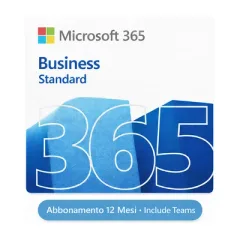
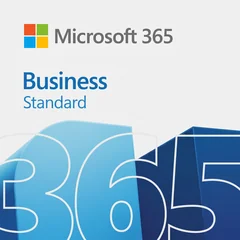
Sostituisce l'immagine prodotto di Microsoft 365 Business Standard
Nuovo artwork ufficiale in WebP (400/320/240px), peso ridotto da 21,6 a 13,9 KB per la versione principale.

diff --git a/it/microsoft-365-business-standard.html b/it/microsoft-365-business-standard.html
@@ -175,7 +175,7 @@
     <script src="../js/consent-init.js?v=1014bf53bc"></script>
     <link rel="icon" href="../favicon/favicon.png?v=3bfa4181d2" type="image/png">
     <link rel="apple-touch-icon" href="../favicon/apple-touch-icon.png?v=998f6e4af4">
-    <link rel="preload" as="image" href="../asset/media/products/microsoft-365-business-standard.webp?v=260aa05da1" fetchpriority="high" type="image/webp">
+    <link rel="preload" as="image" href="../asset/media/products/microsoft-365-business-standard.webp?v=017a82bb75" fetchpriority="high" type="image/webp">
     <link rel="stylesheet" href="../fonts/montserrat.css?v=3da8c0f35d">
     <!-- Font del mockup di riferimento (Plus Jakarta Sans + Inter), scopato alla
          sola PDP tramite --font-sans su .pdp-page — non tocca header/footer,
@@ -192,7 +192,7 @@
     <link rel="stylesheet" href="../css/header.css?v=99f0f9e298">
     <link rel="stylesheet" href="../css/footer.css?v=31dc97e061">
     <link rel="stylesheet" href="../css/product.css?v=51918bdcca">
-    <link rel="stylesheet" href="../css/product-pdp.css?v=0d5ad7732d">
+    <link rel="stylesheet" href="../css/product-pdp.css?v=8837be8eed">
     <script src="../js/theme-init.js?v=d487584e0d"></script>
     <script>window.__amlPaypalConfig = fetch("/api/paypal-config").then(function(r){return r.json();}).catch(function(){return null;});</script>
 </head>
@@ -454,7 +454,7 @@
             </ecommerce-header>
     <div id="product-sticky-cta" class="product-sticky-cta" role="region" aria-label="Acquisto rapido" aria-hidden="true">
         <div class="product-sticky-cta__inner">
-            <img class="product-sticky-cta__thumb" src="../asset/media/products/microsoft-365-business-standard.webp?v=260aa05da1" width="40" height="40" alt="" loading="lazy" decoding="async">
+            <img class="product-sticky-cta__thumb" src="../asset/media/products/microsoft-365-business-standard.webp?v=017a82bb75" width="40" height="40" alt="" loading="lazy" decoding="async">
             <div class="product-sticky-cta__name">
                 <span class="product-sticky-cta__title">Microsoft 365 Business Standard</span>
                 <span class="product-sticky-cta__eta">Consegna in 2 minuti via Email</span>
@@ -493,7 +493,7 @@
                 <p class="v2-hero__desc">Microsoft 365 Business Standard: app Office desktop complete (Word, Excel, PowerPoint, Outlook), posta aziendale Exchange da 50 GB con dominio personalizzato, Teams per riunioni fino a 300 partecipanti e 1 TB OneDrive. Licenza per 1 utente su 5 PC/Mac + 5 dispositivi mobili, attivazione ufficiale e fattura elettronica con P.IVA.</p>
 
                 <figure class="pdp-media">
-                    <img class="pdp-media__img product-cover-img" src="../asset/media/products/microsoft-365-business-standard.webp?v=260aa05da1" width="400" height="400" alt="Microsoft 365 Business Standard" fetchpriority="high" decoding="async">
+                    <img class="pdp-media__img product-cover-img" src="../asset/media/products/microsoft-365-business-standard.webp?v=017a82bb75" width="400" height="400" alt="Microsoft 365 Business Standard" fetchpriority="high" decoding="async">
                 </figure>
 
                 <div class="pdp-apptabs-block">

diff --git a/pt/microsoft-365-business-standard.html b/pt/microsoft-365-business-standard.html
@@ -175,7 +175,7 @@
     <script src="../js/consent-init.js?v=1014bf53bc"></script>
     <link rel="icon" href="../favicon/favicon.png?v=3bfa4181d2" type="image/png">
     <link rel="apple-touch-icon" href="../favicon/apple-touch-icon.png?v=998f6e4af4">
-    <link rel="preload" as="image" href="../asset/media/products/microsoft-365-business-standard.webp?v=260aa05da1" fetchpriority="high" type="image/webp">
+    <link rel="preload" as="image" href="../asset/media/products/microsoft-365-business-standard.webp?v=017a82bb75" fetchpriority="high" type="image/webp">
     <link rel="stylesheet" href="../fonts/montserrat.css?v=3da8c0f35d">
     <!-- Font del mockup di riferimento (Plus Jakarta Sans + Inter), scopato alla
          sola PDP tramite --font-sans su .pdp-page — non tocca header/footer,
@@ -192,7 +192,7 @@
     <link rel="stylesheet" href="../css/header.css?v=99f0f9e298">
     <link rel="stylesheet" href="../css/footer.css?v=31dc97e061">
     <link rel="stylesheet" href="../css/product.css?v=51918bdcca">
-    <link rel="stylesheet" href="../css/product-pdp.css?v=0d5ad7732d">
+    <link rel="stylesheet" href="../css/product-pdp.css?v=8837be8eed">
     <script src="../js/theme-init.js?v=d487584e0d"></script>
     <script>window.__amlPaypalConfig = fetch("/api/paypal-config").then(function(r){return r.json();}).catch(function(){return null;});</script>
 </head>
@@ -454,7 +454,7 @@
             </ecommerce-header>
     <div id="product-sticky-cta" class="product-sticky-cta" role="region" aria-label="Compra rápida" aria-hidden="true">
         <div class="product-sticky-cta__inner">
-            <img class="product-sticky-cta__thumb" src="../asset/media/products/microsoft-365-business-standard.webp?v=260aa05da1" width="40" height="40" alt="" loading="lazy" decoding="async">
+            <img class="product-sticky-cta__thumb" src="../asset/media/products/microsoft-365-business-standard.webp?v=017a82bb75" width="40" height="40" alt="" loading="lazy" decoding="async">
             <div class="product-sticky-cta__name">
                 <span class="product-sticky-cta__title">Microsoft 365 Business Standard</span>
                 <span class="product-sticky-cta__eta">Entrega em 2 minutos por email</span>
@@ -493,7 +493,7 @@
                 <p class="v2-hero__desc">Microsoft 365 Business Standard: aplicações Office de computador completas (Word, Excel, PowerPoint, Outlook), email empresarial Exchange de 50 GB com domínio próprio, Teams até 300 participantes e 1 TB OneDrive. Licença de 1 utilizador para 5 PC/Mac + 5 dispositivos móveis, ativação oficial e fatura com IVA.</p>
 
                 <figure class="pdp-media">
-                    <img class="pdp-media__img product-cover-img" src="../asset/media/products/microsoft-365-business-standard.webp?v=260aa05da1" width="400" height="400" alt="Microsoft 365 Business Standard" fetchpriority="high" decoding="async">
+                    <img class="pdp-media__img product-cover-img" src="../asset/media/products/microsoft-365-business-standard.webp?v=017a82bb75" width="400" height="400" alt="Microsoft 365 Business Standard" fetchpriority="high" decoding="async">
                 </figure>
 
                 <div class="pdp-apptabs-block">

diff --git a/es/microsoft-365-business-standard.html b/es/microsoft-365-business-standard.html
@@ -175,7 +175,7 @@
     <script src="../js/consent-init.js?v=1014bf53bc"></script>
     <link rel="icon" href="../favicon/favicon.png?v=3bfa4181d2" type="image/png">
     <link rel="apple-touch-icon" href="../favicon/apple-touch-icon.png?v=998f6e4af4">
-    <link rel="preload" as="image" href="../asset/media/products/microsoft-365-business-standard.webp?v=260aa05da1" fetchpriority="high" type="image/webp">
+    <link rel="preload" as="image" href="../asset/media/products/microsoft-365-business-standard.webp?v=017a82bb75" fetchpriority="high" type="image/webp">
     <link rel="stylesheet" href="../fonts/montserrat.css?v=3da8c0f35d">
     <!-- Font del mockup di riferimento (Plus Jakarta Sans + Inter), scopato alla
          sola PDP tramite --font-sans su .pdp-page — non tocca header/footer,
@@ -192,7 +192,7 @@
     <link rel="stylesheet" href="../css/header.css?v=99f0f9e298">
     <link rel="stylesheet" href="../css/footer.css?v=31dc97e061">
     <link rel="stylesheet" href="../css/product.css?v=51918bdcca">
-    <link rel="stylesheet" href="../css/product-pdp.css?v=0d5ad7732d">
+    <link rel="stylesheet" href="../css/product-pdp.css?v=8837be8eed">
     <script src="../js/theme-init.js?v=d487584e0d"></script>
     <script>window.__amlPaypalConfig = fetch("/api/paypal-config").then(function(r){return r.json();}).catch(function(){return null;});</script>
 </head>
@@ -454,7 +454,7 @@
             </ecommerce-header>
     <div id="product-sticky-cta" class="product-sticky-cta" role="region" aria-label="Compra rápida" aria-hidden="true">
         <div class="product-sticky-cta__inner">
-            <img class="product-sticky-cta__thumb" src="../asset/media/products/microsoft-365-business-standard.webp?v=260aa05da1" width="40" height="40" alt="" loading="lazy" decoding="async">
+            <img class="product-sticky-cta__thumb" src="../asset/media/products/microsoft-365-business-standard.webp?v=017a82bb75" width="40" height="40" alt="" loading="lazy" decoding="async">
             <div class="product-sticky-cta__name">
                 <span class="product-sticky-cta__title">Microsoft 365 Business Standard</span>
                 <span class="product-sticky-cta__eta">Entrega en 2 minutos por email</span>
@@ -493,7 +493,7 @@
                 <p class="v2-hero__desc">Microsoft 365 Business Standard: aplicaciones de escritorio completas de Office (Word, Excel, PowerPoint, Outlook), correo Exchange de 50 GB con dominio personalizado, Teams para reuniones de hasta 300 asistentes y 1 TB OneDrive. Licencia de 1 usuario para 5 PC/Mac + 5 móviles, activación oficial y factura con IVA.</p>
 
                 <figure class="pdp-media">
-                    <img class="pdp-media__img product-cover-img" src="../asset/media/products/microsoft-365-business-standard.webp?v=260aa05da1" width="400" height="400" alt="Microsoft 365 Business Standard" fetchpriority="high" decoding="async">
+                    <img class="pdp-media__img product-cover-img" src="../asset/media/products/microsoft-365-business-standard.webp?v=017a82bb75" width="400" height="400" alt="Microsoft 365 Business Standard" fetchpriority="high" decoding="async">
                 </figure>
 
                 <div class="pdp-apptabs-block">

diff --git a/nl/microsoft-365-business-standard.html b/nl/microsoft-365-business-standard.html
@@ -175,7 +175,7 @@
     <script src="../js/consent-init.js?v=1014bf53bc"></script>
     <link rel="icon" href="../favicon/favicon.png?v=3bfa4181d2" type="image/png">
     <link rel="apple-touch-icon" href="../favicon/apple-touch-icon.png?v=998f6e4af4">
-    <link rel="preload" as="image" href="../asset/media/products/microsoft-365-business-standard.webp?v=260aa05da1" fetchpriority="high" type="image/webp">
+    <link rel="preload" as="image" href="../asset/media/products/microsoft-365-business-standard.webp?v=017a82bb75" fetchpriority="high" type="image/webp">
     <link rel="stylesheet" href="../fonts/montserrat.css?v=3da8c0f35d">
     <!-- Font del mockup di riferimento (Plus Jakarta Sans + Inter), scopato alla
          sola PDP tramite --font-sans su .pdp-page — non tocca header/footer,
@@ -192,7 +192,7 @@
     <link rel="stylesheet" href="../css/header.css?v=99f0f9e298">
     <link rel="stylesheet" href="../css/footer.css?v=31dc97e061">
     <link rel="stylesheet" href="../css/product.css?v=51918bdcca">
-    <link rel="stylesheet" href="../css/product-pdp.css?v=0d5ad7732d">
+    <link rel="stylesheet" href="../css/product-pdp.css?v=8837be8eed">
     <script src="../js/theme-init.js?v=d487584e0d"></script>
     <script>window.__amlPaypalConfig = fetch("/api/paypal-config").then(function(r){return r.json();}).catch(function(){return null;});</script>
 </head>
@@ -454,7 +454,7 @@
             </ecommerce-header>
     <div id="product-sticky-cta" class="product-sticky-cta" role="region" aria-label="Snel kopen" aria-hidden="true">
         <div class="product-sticky-cta__inner">
-            <img class="product-sticky-cta__thumb" src="../asset/media/products/microsoft-365-business-standard.webp?v=260aa05da1" width="40" height="40" alt="" loading="lazy" decoding="async">
+            <img class="product-sticky-cta__thumb" src="../asset/media/products/microsoft-365-business-standard.webp?v=017a82bb75" width="40" height="40" alt="" loading="lazy" decoding="async">
             <div class="product-sticky-cta__name">
                 <span class="product-sticky-cta__title">Microsoft 365 Business Standard</span>
                 <span class="product-sticky-cta__eta">Levering in 2 minuten per e-mail</span>
@@ -493,7 +493,7 @@
                 <p class="v2-hero__desc">Microsoft 365 Business Standard: complete desktop Office-apps (Word, Excel, PowerPoint, Outlook), 50 GB Exchange zakelijke e-mail met eigen domein, Teams voor vergaderingen tot 300 deelnemers en 1 TB OneDrive. Licentie voor 1 gebruiker op 5 pc's/Macs + 5 mobiele apparaten, officiële activering en btw-factuur.</p>
 
                 <figure class="pdp-media">
-                    <img class="pdp-media__img product-cover-img" src="../asset/media/products/microsoft-365-business-standard.webp?v=260aa05da1" width="400" height="400" alt="Microsoft 365 Business Standard" fetchpriority="high" decoding="async">
+                    <img class="pdp-media__img product-cover-img" src="../asset/media/products/microsoft-365-business-standard.webp?v=017a82bb75" width="400" height="400" alt="Microsoft 365 Business Standard" fetchpriority="high" decoding="async">
                 </figure>
 
                 <div class="pdp-apptabs-block">

diff --git a/fr/microsoft-365-business-standard.html b/fr/microsoft-365-business-standard.html
@@ -175,7 +175,7 @@
     <script src="../js/consent-init.js?v=1014bf53bc"></script>
     <link rel="icon" href="../favicon/favicon.png?v=3bfa4181d2" type="image/png">
     <link rel="apple-touch-icon" href="../favicon/apple-touch-icon.png?v=998f6e4af4">
-    <link rel="preload" as="image" href="../asset/media/products/microsoft-365-business-standard.webp?v=260aa05da1" fetchpriority="high" type="image/webp">
+    <link rel="preload" as="image" href="../asset/media/products/microsoft-365-business-standard.webp?v=017a82bb75" fetchpriority="high" type="image/webp">
     <link rel="stylesheet" href="../fonts/montserrat.css?v=3da8c0f35d">
     <!-- Font del mockup di riferimento (Plus Jakarta Sans + Inter), scopato alla
          sola PDP tramite --font-sans su .pdp-page — non tocca header/footer,
@@ -192,7 +192,7 @@
     <link rel="stylesheet" href="../css/header.css?v=99f0f9e298">
     <link rel="stylesheet" href="../css/footer.css?v=31dc97e061">
     <link rel="stylesheet" href="../css/product.css?v=51918bdcca">
-    <link rel="stylesheet" href="../css/product-pdp.css?v=0d5ad7732d">
+    <link rel="stylesheet" href="../css/product-pdp.css?v=8837be8eed">
     <script src="../js/theme-init.js?v=d487584e0d"></script>
     <script>window.__amlPaypalConfig = fetch("/api/paypal-config").then(function(r){return r.json();}).catch(function(){return null;});</script>
 </head>
@@ -454,7 +454,7 @@
             </ecommerce-header>
     <div id="product-sticky-cta" class="product-sticky-cta" role="region" aria-label="Achat rapide" aria-hidden="true">
         <div class="product-sticky-cta__inner">
-            <img class="product-sticky-cta__thumb" src="../asset/media/products/microsoft-365-business-standard.webp?v=260aa05da1" width="40" height="40" alt="" loading="lazy" decoding="async">
+            <img class="product-sticky-cta__thumb" src="../asset/media/products/microsoft-365-business-standard.webp?v=017a82bb75" width="40" height="40" alt="" loading="lazy" decoding="async">
             <div class="product-sticky-cta__name">
                 <span class="product-sticky-cta__title">Microsoft 365 Business Standard</span>
                 <span class="product-sticky-cta__eta">Livraison en 2 minutes par e-mail</span>
@@ -493,7 +493,7 @@
                 <p class="v2-hero__desc">Microsoft 365 Business Standard : applications Office de bureau complètes (Word, Excel, PowerPoint, Outlook), messagerie Exchange 50 Go avec domaine personnalisé, Teams jusqu'à 300 participants et 1 To OneDrive. Licence 1 utilisateur pour 5 PC/Mac + 5 mobiles, activation officielle et facture avec TVA.</p>
 
                 <figure class="pdp-media">
-                    <img class="pdp-media__img product-cover-img" src="../asset/media/products/microsoft-365-business-standard.webp?v=260aa05da1" width="400" height="400" alt="Microsoft 365 Business Standard" fetchpriority="high" decoding="async">
+                    <img class="pdp-media__img product-cover-img" src="../asset/media/products/microsoft-365-business-standard.webp?v=017a82bb75" width="400" height="400" alt="Microsoft 365 Business Standard" fetchpriority="high" decoding="async">
                 </figure>
 
                 <div class="pdp-apptabs-block">

diff --git a/de/microsoft-365-business-standard.html b/de/microsoft-365-business-standard.html
@@ -175,7 +175,7 @@
     <script src="../js/consent-init.js?v=1014bf53bc"></script>
     <link rel="icon" href="../favicon/favicon.png?v=3bfa4181d2" type="image/png">
     <link rel="apple-touch-icon" href="../favicon/apple-touch-icon.png?v=998f6e4af4">
-    <link rel="preload" as="image" href="../asset/media/products/microsoft-365-business-standard.webp?v=260aa05da1" fetchpriority="high" type="image/webp">
+    <link rel="preload" as="image" href="../asset/media/products/microsoft-365-business-standard.webp?v=017a82bb75" fetchpriority="high" type="image/webp">
     <link rel="stylesheet" href="../fonts/montserrat.css?v=3da8c0f35d">
     <!-- Font del mockup di riferimento (Plus Jakarta Sans + Inter), scopato alla
          sola PDP tramite --font-sans su .pdp-page — non tocca header/footer,
@@ -192,7 +192,7 @@
     <link rel="stylesheet" href="../css/header.css?v=99f0f9e298">
     <link rel="stylesheet" href="../css/footer.css?v=31dc97e061">
     <link rel="stylesheet" href="../css/product.css?v=51918bdcca">
-    <link rel="stylesheet" href="../css/product-pdp.css?v=0d5ad7732d">
+    <link rel="stylesheet" href="../css/product-pdp.css?v=8837be8eed">
     <script src="../js/theme-init.js?v=d487584e0d"></script>
     <script>window.__amlPaypalConfig = fetch("/api/paypal-config").then(function(r){return r.json();}).catch(function(){return null;});</script>
 </head>
@@ -454,7 +454,7 @@
             </ecommerce-header>
     <div id="product-sticky-cta" class="product-sticky-cta" role="region" aria-label="Schnellkauf" aria-hidden="true">
         <div class="product-sticky-cta__inner">
-            <img class="product-sticky-cta__thumb" src="../asset/media/products/microsoft-365-business-standard.webp?v=260aa05da1" width="40" height="40" alt="" loading="lazy" decoding="async">
+            <img class="product-sticky-cta__thumb" src="../asset/media/products/microsoft-365-business-standard.webp?v=017a82bb75" width="40" height="40" alt="" loading="lazy" decoding="async">
             <div class="product-sticky-cta__name">
                 <span class="product-sticky-cta__title">Microsoft 365 Business Standard</span>
                 <span class="product-sticky-cta__eta">Lieferung in 2 Minuten per E-Mail</span>
@@ -493,7 +493,7 @@
                 <p class="v2-hero__desc">Microsoft 365 Business Standard: vollständige Desktop-Office-Apps (Word, Excel, PowerPoint, Outlook), 50 GB Exchange-Geschäfts-E-Mail mit eigener Domain, Teams für Meetings bis 300 Teilnehmer und 1 TB OneDrive. 1-Nutzer-Lizenz für 5 PCs/Macs + 5 Mobilgeräte, offizielle Aktivierung und MwSt.-Rechnung.</p>
 
                 <figure class="pdp-media">
-                    <img class="pdp-media__img product-cover-img" src="../asset/media/products/microsoft-365-business-standard.webp?v=260aa05da1" width="400" height="400" alt="Microsoft 365 Business Standard" fetchpriority="high" decoding="async">
+                    <img class="pdp-media__img product-cover-img" src="../asset/media/products/microsoft-365-business-standard.webp?v=017a82bb75" width="400" height="400" alt="Microsoft 365 Business Standard" fetchpriority="high" decoding="async">
                 </figure>
 
                 <div class="pdp-apptabs-block">

diff --git a/en/microsoft-365-business-standard.html b/en/microsoft-365-business-standard.html
@@ -175,7 +175,7 @@
     <script src="../js/consent-init.js?v=1014bf53bc"></script>
     <link rel="icon" href="../favicon/favicon.png?v=3bfa4181d2" type="image/png">
     <link rel="apple-touch-icon" href="../favicon/apple-touch-icon.png?v=998f6e4af4">
-    <link rel="preload" as="image" href="../asset/media/products/microsoft-365-business-standard.webp?v=260aa05da1" fetchpriority="high" type="image/webp">
+    <link rel="preload" as="image" href="../asset/media/products/microsoft-365-business-standard.webp?v=017a82bb75" fetchpriority="high" type="image/webp">
     <link rel="stylesheet" href="../fonts/montserrat.css?v=3da8c0f35d">
     <!-- Font del mockup di riferimento (Plus Jakarta Sans + Inter), scopato alla
          sola PDP tramite --font-sans su .pdp-page — non tocca header/footer,
@@ -192,7 +192,7 @@
     <link rel="stylesheet" href="../css/header.css?v=99f0f9e298">
     <link rel="stylesheet" href="../css/footer.css?v=31dc97e061">
     <link rel="stylesheet" href="../css/product.css?v=51918bdcca">
-    <link rel="stylesheet" href="../css/product-pdp.css?v=0d5ad7732d">
+    <link rel="stylesheet" href="../css/product-pdp.css?v=8837be8eed">
     <script src="../js/theme-init.js?v=d487584e0d"></script>
     <script>window.__amlPaypalConfig = fetch("/api/paypal-config").then(function(r){return r.json();}).catch(function(){return null;});</script>
 </head>
@@ -454,7 +454,7 @@
             </ecommerce-header>
     <div id="product-sticky-cta" class="product-sticky-cta" role="region" aria-label="Quick purchase" aria-hidden="true">
         <div class="product-sticky-cta__inner">
-            <img class="product-sticky-cta__thumb" src="../asset/media/products/microsoft-365-business-standard.webp?v=260aa05da1" width="40" height="40" alt="" loading="lazy" decoding="async">
+            <img class="product-sticky-cta__thumb" src="../asset/media/products/microsoft-365-business-standard.webp?v=017a82bb75" width="40" height="40" alt="" loading="lazy" decoding="async">
             <div class="product-sticky-cta__name">
                 <span class="product-sticky-cta__title">Microsoft 365 Business Standard</span>
                 <span class="product-sticky-cta__eta">Delivered in 2 minutes by email</span>
@@ -493,7 +493,7 @@
                 <p class="v2-hero__desc">Microsoft 365 Business Standard: complete desktop Office apps (Word, Excel, PowerPoint, Outlook), 50 GB Exchange business email with custom domain, Teams for meetings up to 300 attendees, and 1 TB OneDrive cloud. 1 user licence for 5 PCs/Macs + 5 mobile devices, official activation, and VAT invoice.</p>
 
                 <figure class="pdp-media">
-                    <img class="pdp-media__img product-cover-img" src="../asset/media/products/microsoft-365-business-standard.webp?v=260aa05da1" width="400" height="400" alt="Microsoft 365 Business Standard" fetchpriority="high" decoding="async">
+                    <img class="pdp-media__img product-cover-img" src="../asset/media/products/microsoft-365-business-standard.webp?v=017a82bb75" width="400" height="400" alt="Microsoft 365 Business Standard" fetchpriority="high" decoding="async">
                 </figure>
 
                 <div class="pdp-apptabs-block">
